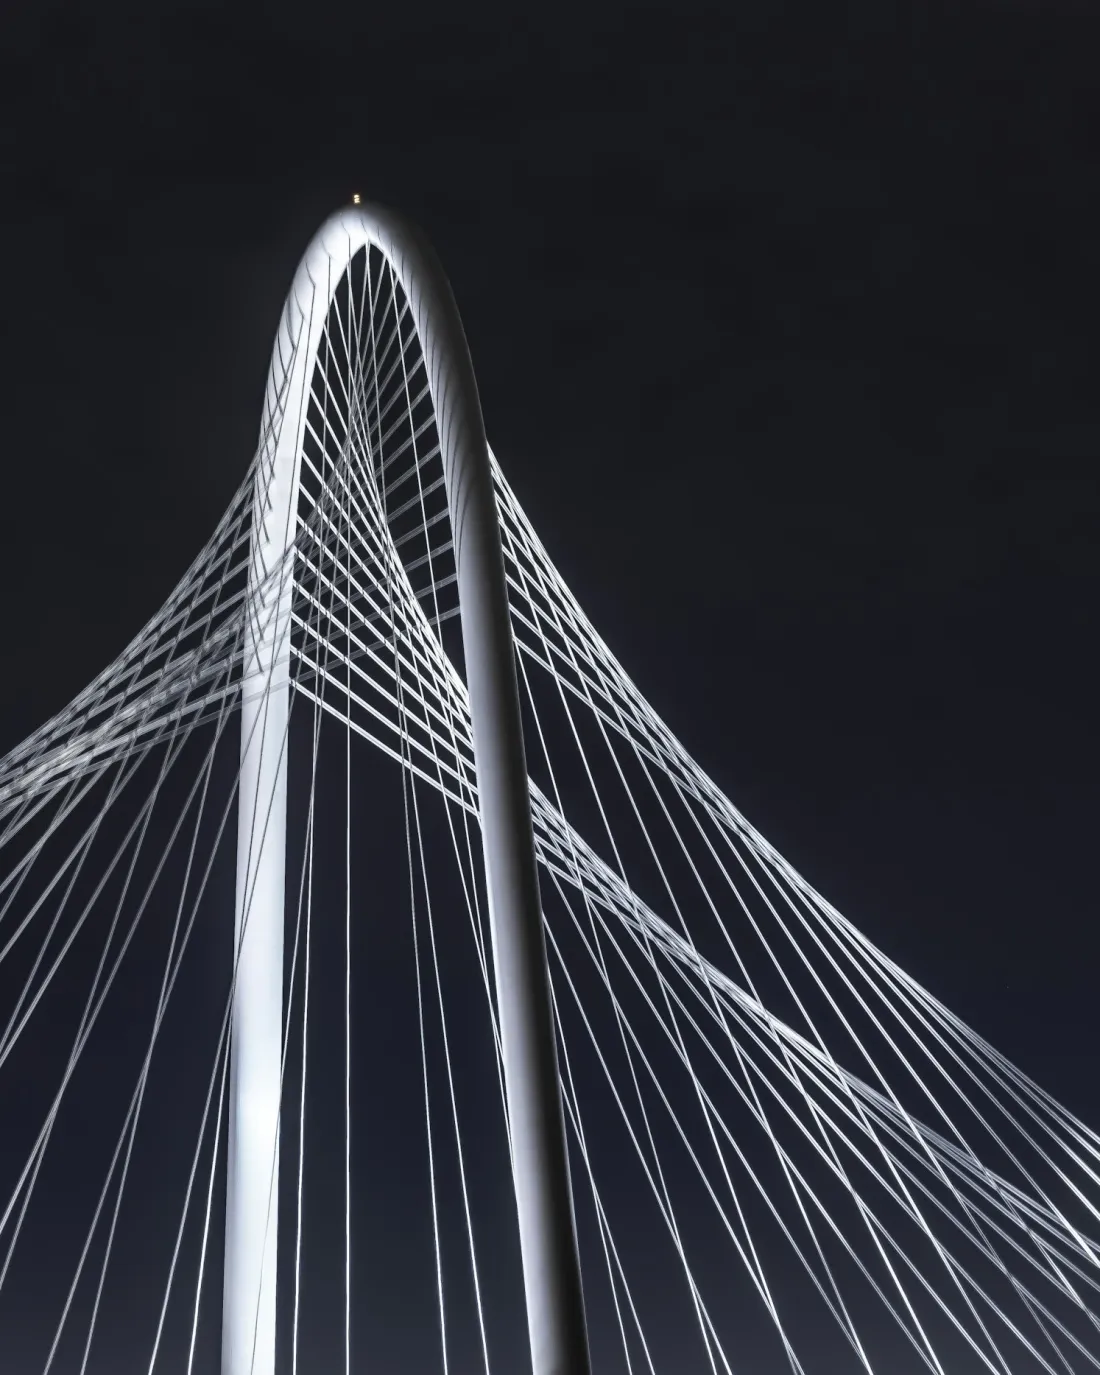
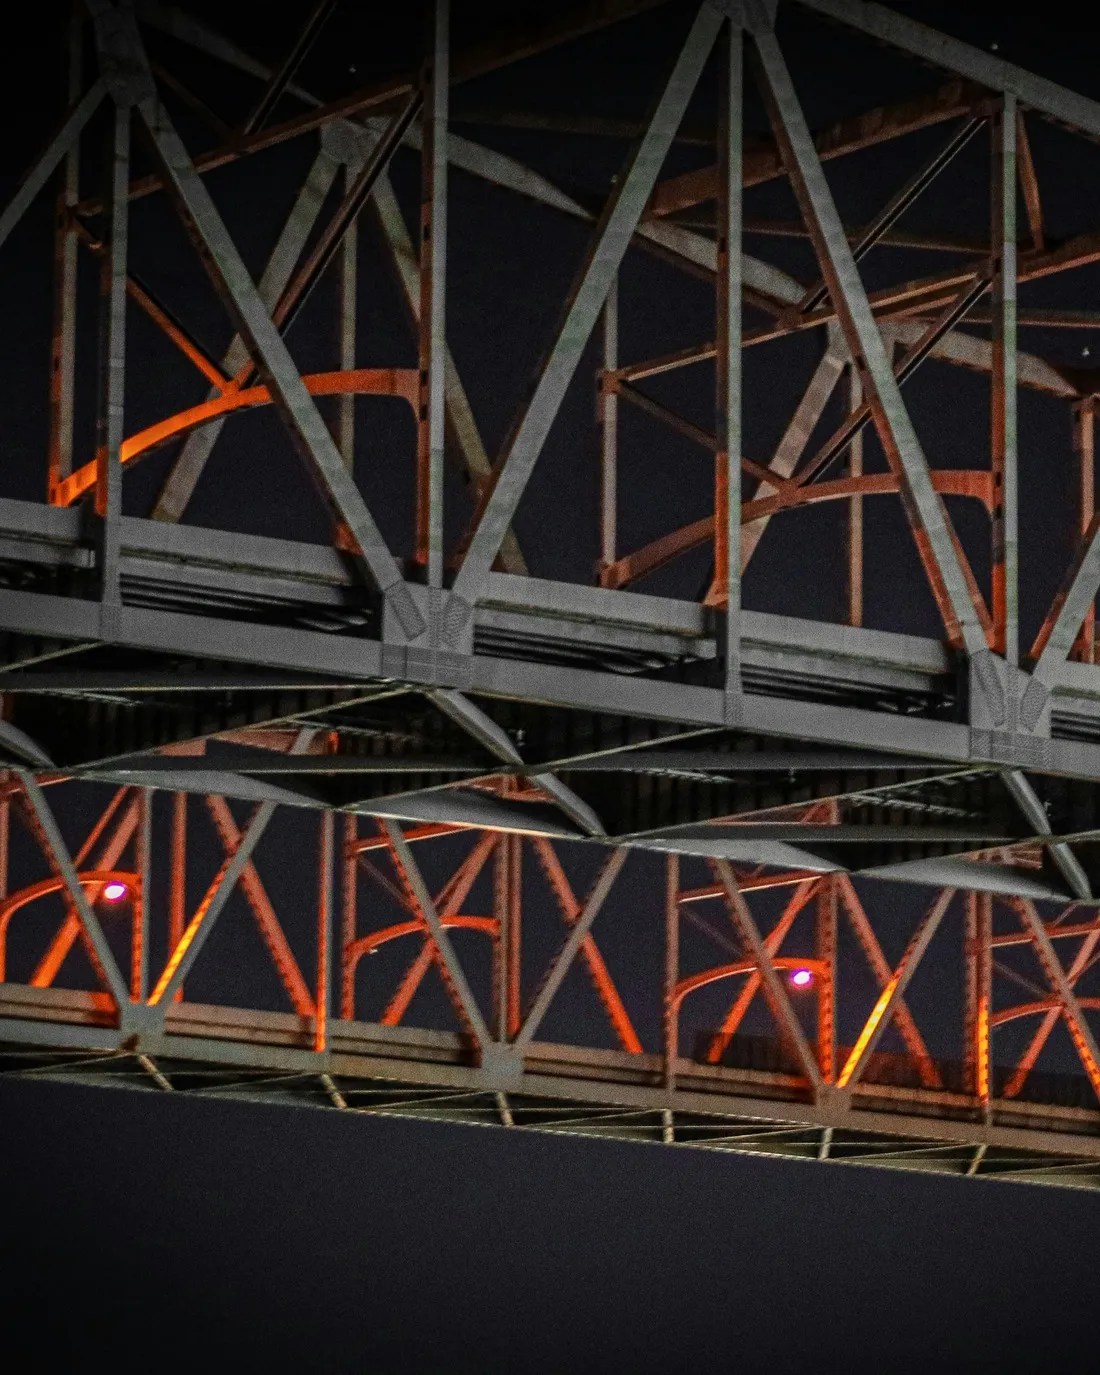
Use a New Orleans photograph in the hero and darken it behind the copy
The hero now shows the Crescent City Connection at night instead of a
bridge in Dallas, with the credit, share image and alt text updated to
match. A gradient shade over the lower half keeps the hero text above
9:1 against the brightest steel on desktop and phone.

The Get Involved note now welcomes students and professionals from
elsewhere in Louisiana, without reaching further.

diff --git a/index.html b/index.html
@@ -23,7 +23,7 @@
     <meta property="og:image" content="/og.jpg" />
     <meta property="og:image:width" content="1200" />
     <meta property="og:image:height" content="630" />
-    <meta property="og:image:alt" content="A cable-stayed bridge at night under the MEST wordmark" />
+    <meta property="og:image:alt" content="The steel truss of the Crescent City Connection in New Orleans at night, under the MEST wordmark" />
     <meta name="twitter:card" content="summary_large_image" />
     <link
       rel="preload"

diff --git a/src/styles.css b/src/styles.css
@@ -595,6 +595,18 @@
   mix-blend-mode: color;
   opacity: 0.22;
 }
+/* Darkens the lower part of the photograph, where the copy sits, so every
+   line keeps at least 4.5:1 against the brightest steel behind it. */
+.hero-scrim {
+  position: absolute;
+  inset: 0;
+  background: linear-gradient(
+    to bottom,
+    transparent 38%,
+    color-mix(in srgb, var(--color-bg) 62%, transparent) 62%,
+    color-mix(in srgb, var(--color-bg) 82%, transparent) 100%
+  );
+}
 .hero-grain {
   position: absolute;
   inset: 0;

diff --git a/src/components/Hero.tsx b/src/components/Hero.tsx
@@ -144,13 +144,14 @@ export function Hero() {
           srcSet="/images/hero-mobile.webp 1100w, /images/hero.webp 2400w"
           sizes="100vw"
           width={2400}
-          height={1600}
+          height={1350}
           alt=""
           fetchPriority="high"
           decoding="async"
         />
         <div className="hero-shade" />
         <div className="hero-tint" />
+        <div className="hero-scrim" />
         <div className="hero-grain" />
       </div>
 

diff --git a/src/components/Membership.tsx b/src/components/Membership.tsx
@@ -99,7 +99,7 @@ export function Membership() {
             <p className="t-small measure mt-6 text-fg-2" data-reveal>
               Connect with the community and stay informed about future events
               and opportunities. MEST is based in New Orleans, and students and
-              professionals from elsewhere in Louisiana and beyond are welcome.
+              professionals from elsewhere in Louisiana are welcome.
             </p>
           </div>
 

diff --git a/src/content/site.ts b/src/content/site.ts
@@ -147,9 +147,9 @@ export const socials: { label: string; href: string }[] = [
 
 export const photoCredits = [
   {
-    subject: "Cable-stayed bridge at night",
-    author: "Koushik Beeram",
-    href: "https://unsplash.com/photos/rgj0XAcG0T0",
+    subject: "Crescent City Connection at night, New Orleans",
+    author: "iSawRed",
+    href: "https://unsplash.com/photos/N8vOZKzNdvg",
   },
   {
     subject: "Steel lattice",

diff --git a/README.md b/README.md
@@ -35,7 +35,7 @@ All replaceable content lives in [`src/content/site.ts`](src/content/site.ts). C
 1. **Events.** Add confirmed events to `events` (title, date, time, location, format, description, registration link). While the list is empty the section shows "Upcoming events will appear here."
 2. **Contact and social links.** Fill `contact.email` and the `socials` hrefs. Empty values render as "to be announced" rather than dead links.
 3. **Membership form.** Built but hidden. Set `features.membershipForm` to `true` and `VITE_MEMBERSHIP_ENDPOINT` to a POST endpoint to show it; it sends `{ name, email, role }` as JSON.
-4. **Photography.** The hero bridge and the steel lattice are licensed Unsplash images, not MEST or New Orleans; the bridge is in Dallas. The image-led Community section is not rendered; it is kept in `src/components/Community.tsx` for the past-event gallery and needs authentic photos before it returns.
+4. **Photography.** Licensed Unsplash images, not MEST's own. The hero is the Crescent City Connection in New Orleans; the steel lattice in the offers band is not a New Orleans structure. The image-led Community section is not rendered; it is kept in `src/components/Community.tsx` for the past-event gallery and needs authentic photos before it returns.
 5. **Regional copy.** The Greater New Orleans descriptions in `site.ts` (mission overview and region paragraph, pillar lines, Get Involved note) were written for Phase 1 and need the organizers' approval.
 6. **Metadata.** Add a `<link rel="canonical">` once the domain is known.
 
@@ -58,4 +58,4 @@ All replaceable content lives in [`src/content/site.ts`](src/content/site.ts). C
 
 ## Photography credits
 
-Unsplash license. Bridge at night: Koushik Beeram. Steel lattice: Nick Fewings.
+Unsplash license. Crescent City Connection at night: iSawRed. Steel lattice: Nick Fewings.
